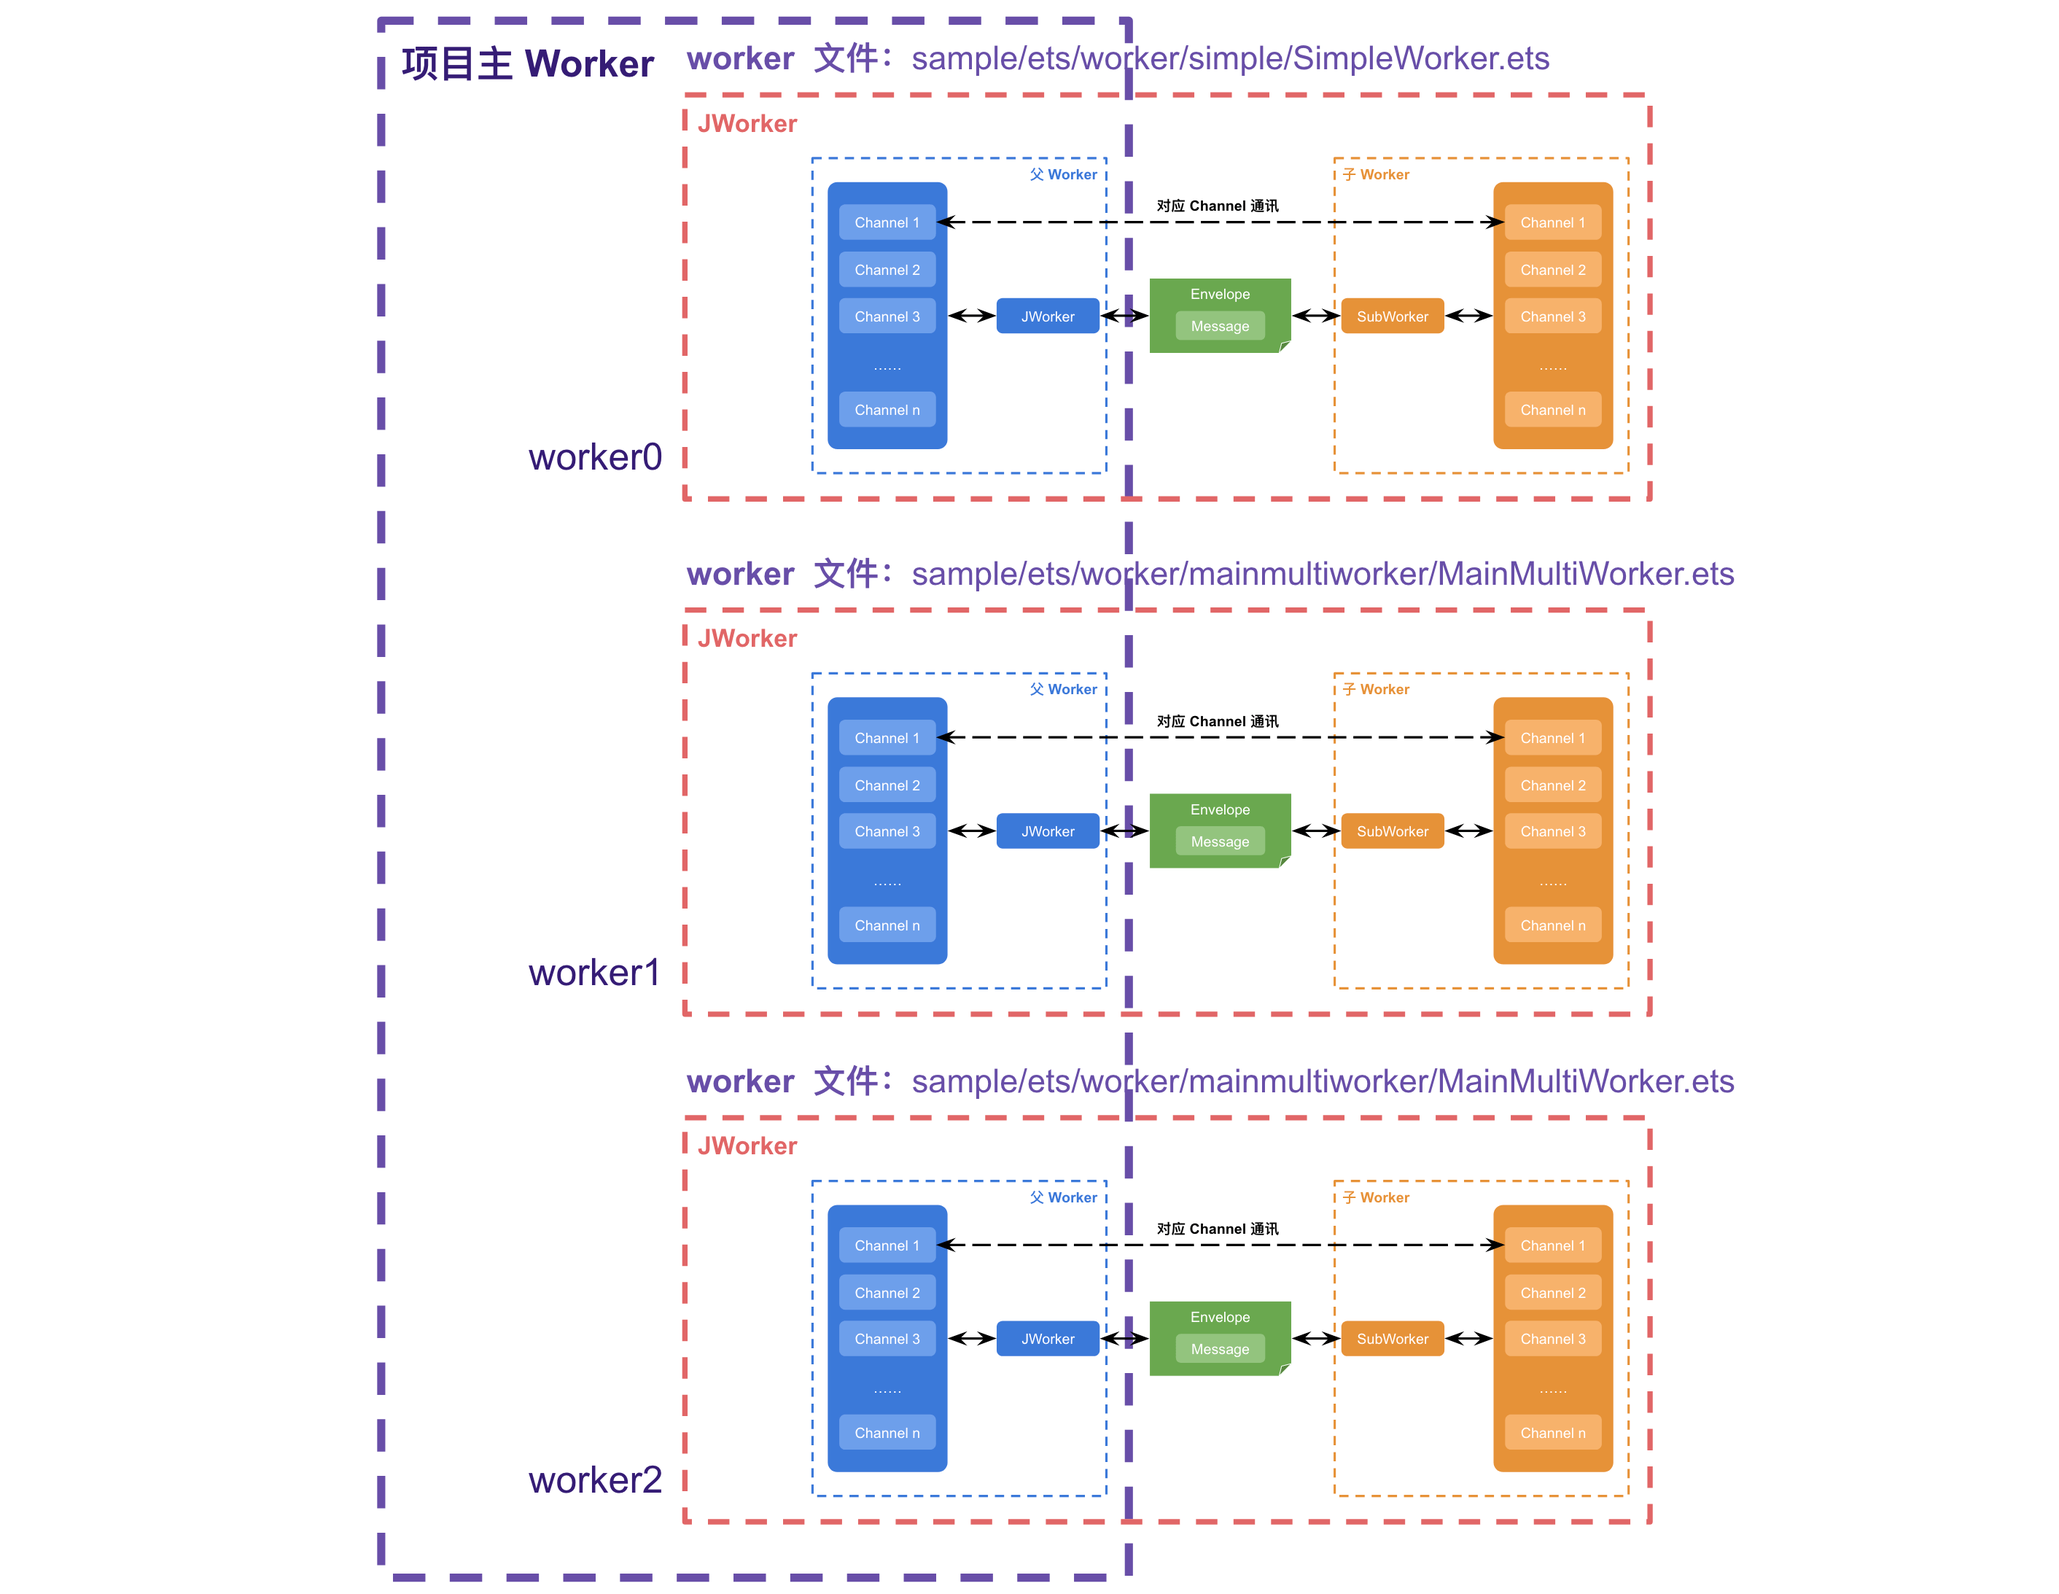
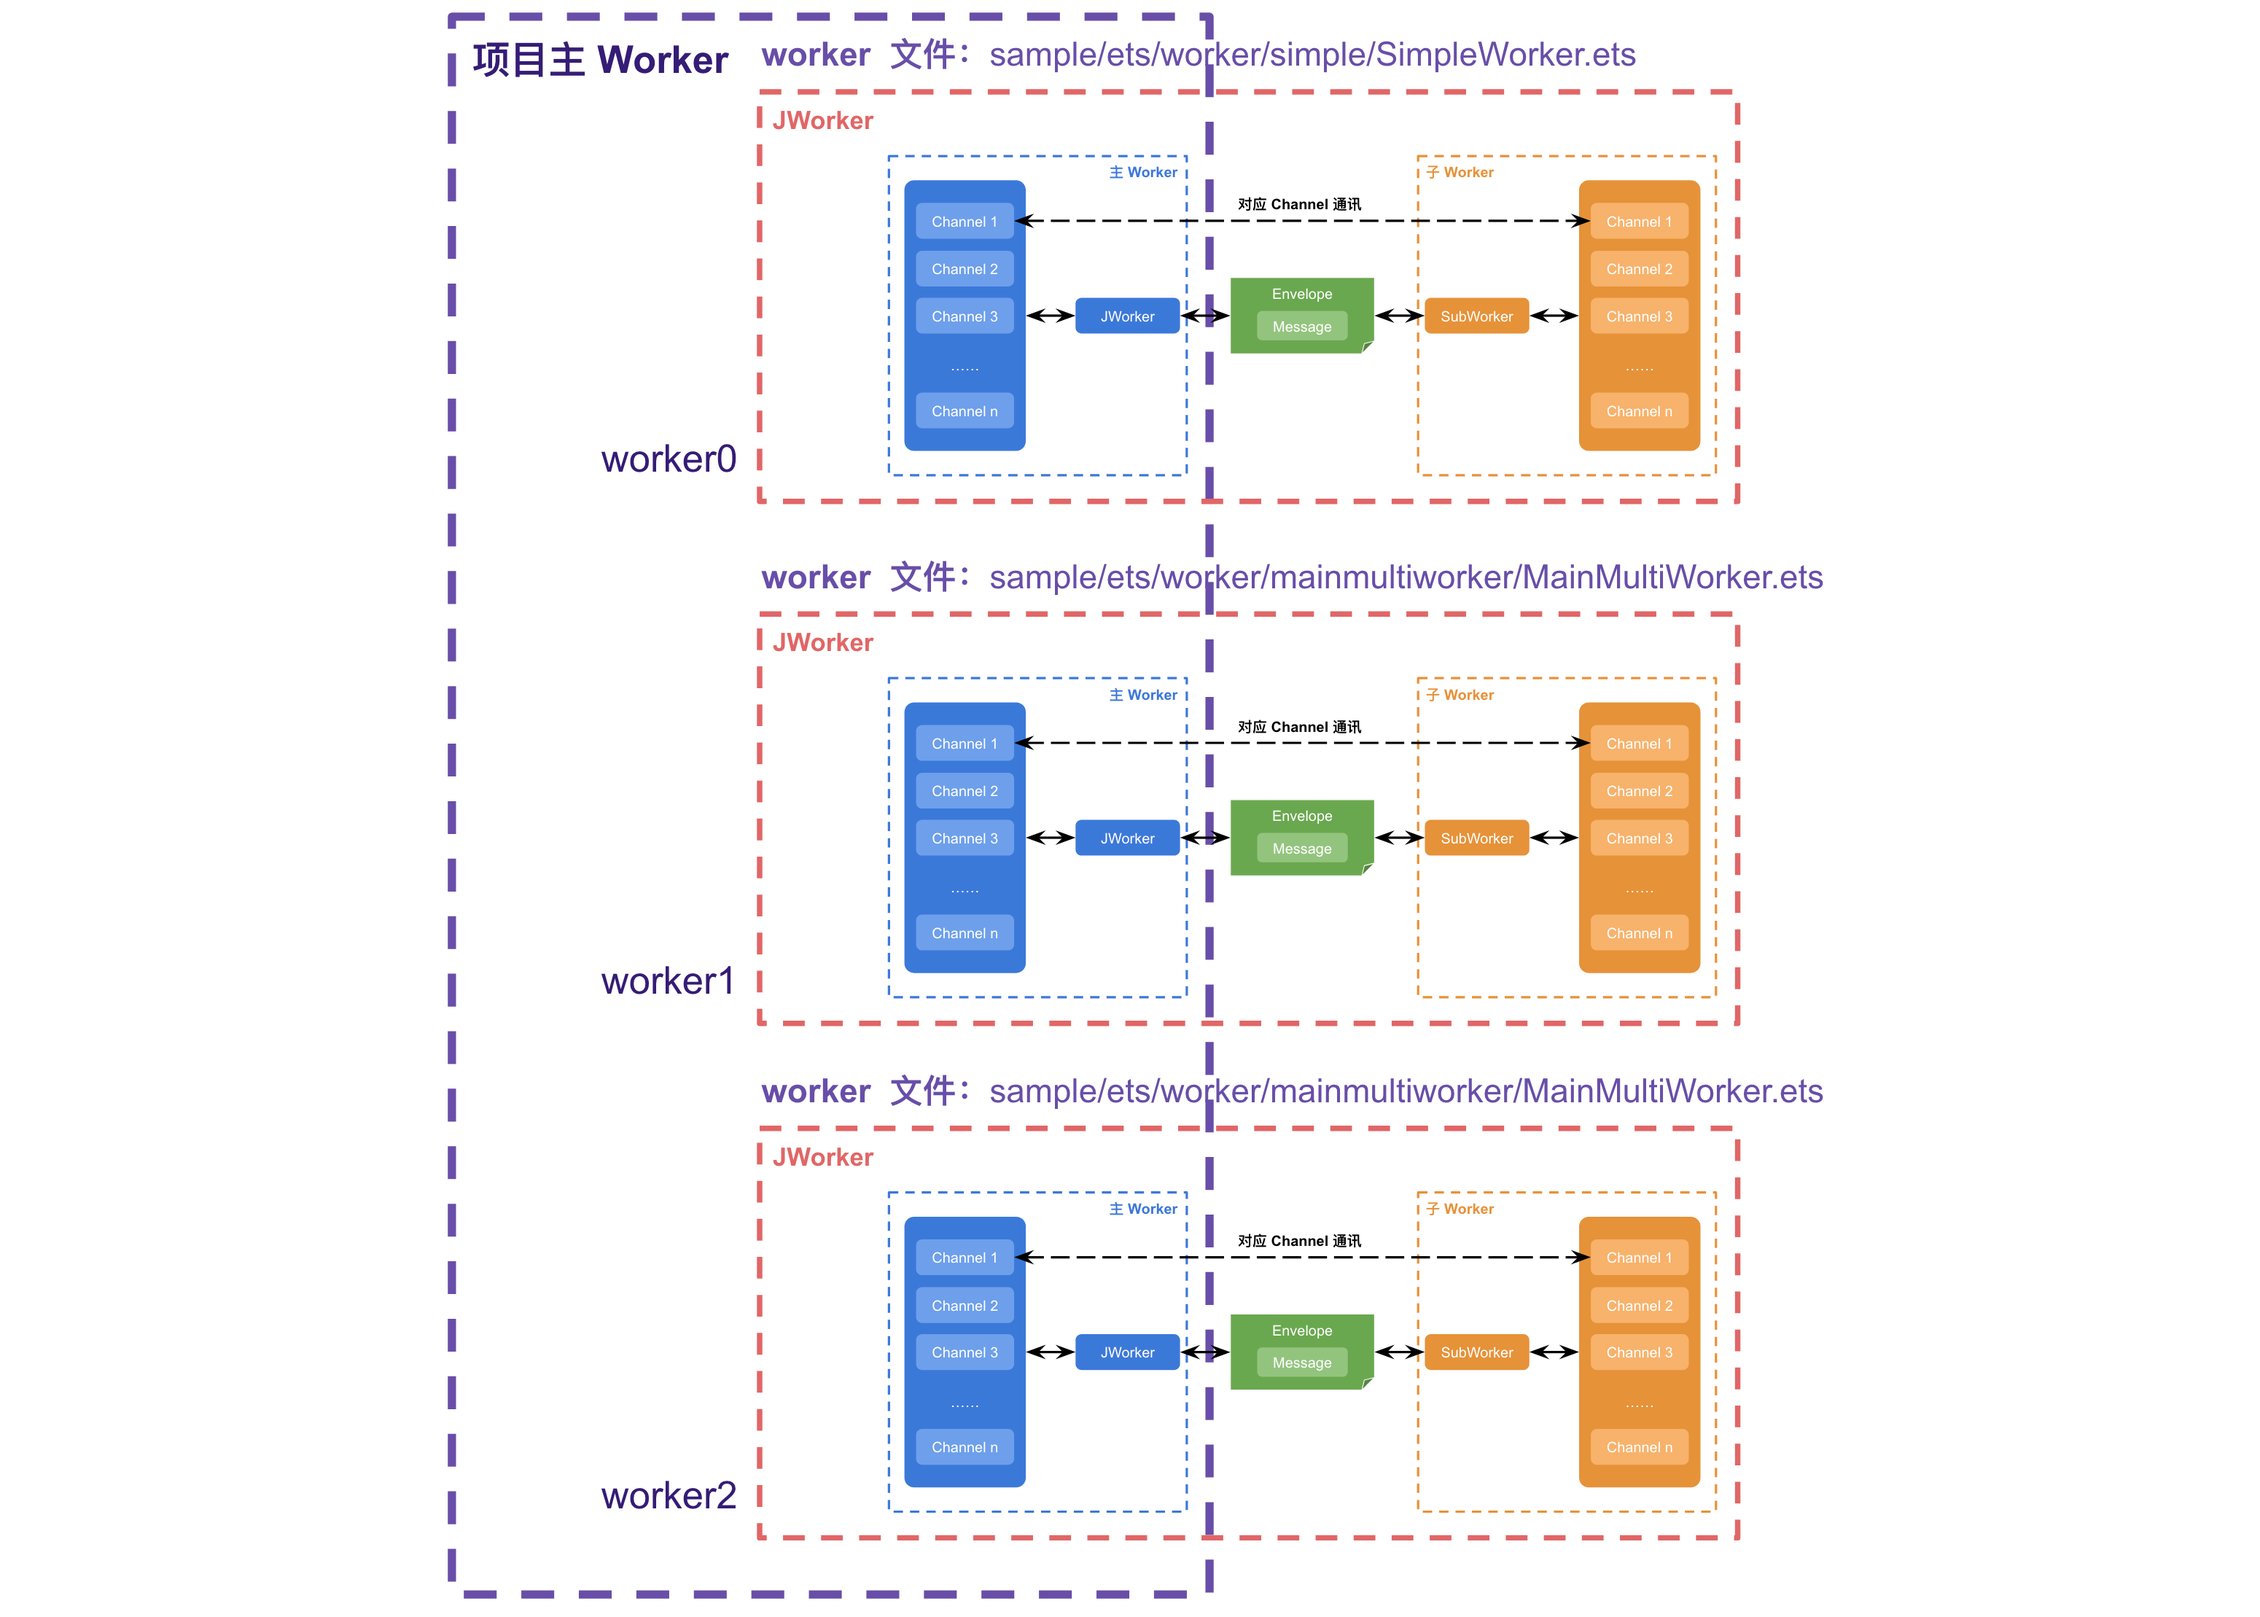
feat: 完善 README.md

diff --git a/README.md b/README.md
@@ -12,6 +12,8 @@
 
 JWorker 是基于鸿蒙 Worker 封装的一套 RPC 通讯机制，所以在正式使用之前需要先添加和配置 Worker 的 ets 文件。可以按照[鸿蒙官方 Worker](https://developer.huawei.com/consumer/cn/doc/harmonyos-guides/worker-introduction) 的使用文档进行添加配置，这里就不再赘述。
 
+> “常规使用” 示例完整代码 [传送门](https://github.com/zincPower/JWorker/tree/main/sample/src/main/ets/worker/simple)
+
 ### 1、创建 JWorker
 
 **主 Worker 中**使用 `createJWorker(workerPath: string)` 创建 `JWorker` 实例，然后调用 `JWorker.start()` 启动 `JWorker` 。 完整代码如下：
@@ -250,16 +252,18 @@ worker.release()
 
 ## 三、多个 Worker
 
-### 1、项目父 Worker 开多个子 Worker
+### 1、项目主 Worker 开多个子 Worker
 
 `JWorker` 项目支持开启多个 Worker ，使用 `createJWorker(workerPath: string)` 方法传入不同的路径，管理好返回 `JWorker` 对象即可。
 
+> “项目主 Worker 开多个子 Worker” 示例完整代码 [传送门](https://github.com/zincPower/JWorker/tree/main/sample/src/main/ets/worker/mainmultiworker)
+
 ![](https://github.com/zincPower/JWorker/blob/main/img/main_multi_worker.png)
 
-项目需要构建上图的使用场景，可以通过以下代码创建 `JWorker` 实例。
+假设项目需要构建上图的使用场景，可以通过以下代码创建 `JWorker` 实例。
 
 - 可以使用不同的 Worker ets 文件，也可以使用同一个 Worker ets 文件可以开启多个 `JWorker` 实例。
-- 通过管理好 `JWorker` 实例，添加渠道后进行各自 Worker 通讯，还可以通过项目主 Worker 让数据在多个子 Worker 流动。
+- 通过管理好 `JWorker` 实例，添加渠道后进行各自 Worker 通讯。
 
 ```ts
 // worker0 和 worker1、worker2 使用不同的 Worker ets 文件进行开启不同的 JWorker 实例
@@ -282,11 +286,11 @@ this.worker2.start()
 
 ### 2、子 Worker 开多个子 Worker
 
-`JWorker` 同样支持在子 Worker 开多个 Worker ，可以进行如下图所示的创建和管理。
+`JWorker` 同样支持在子 Worker 中开启多个 `JWorker` ，可以进行如下图所示的创建和管理。
 
 ![](https://github.com/zincPower/JWorker/blob/main/img/sub_multi_worker.png)
 
-可以在子 Worker 需要创建更多子 Worker 的地方调用 `createJWorker` 创建 `JWorker` ，然后进行启动，后续添加 Channel 进行通讯即可。**使用方式和之前的完全一致。**
+可以在子 Worker 需要创建子 Worker 的地方调用 `createJWorker` 方法创建 `JWorker` ，然后进行启动和添加相应 Channel 进行通讯。**使用方式和之前的完全相同。**
 
 ```ts
 export class ParentSubChannel extends Channel {
@@ -298,6 +302,7 @@ export class ParentSubChannel extends Channel {
   }
 
   private startChildrenWorker() {
+    // 创建三个 JWorker 并开启，添加对应 Channel 
     if (this.childWorker1 == undefined) {
       this.childWorker1 = createJWorker("sample/ets/worker/submultiworker/ChildWorker.ets")
       this.childWorker1Channel = new ChildMainChannel()
@@ -322,19 +327,19 @@ export class ParentSubChannel extends Channel {
 
 **值得注意**
 
-这种情况下需要控制好 Worker 的关闭流程，应该让项目的主 Worker 通知子 Worker 进行关闭他创建的子 Worker ，然后在关闭自身。具体操作如下：
+这种情况下需要控制好 Worker 的关闭顺序，应该让项目的主 Worker 通知子 Worker 进行关闭他创建的子 Worker ，然后在关闭自身。具体操作如下：
 
 ```ts
 // 项目主 Worker 调用子 Worker 的 exit 方法
 this.workerChannel?.send("exit")
 
-// 子 Worker 接收到 exit 的调用，则调用子 Worker 创建的子 Worker 的 exit 进行退出，并等待所有的 Worker 处理完退出后，在退出自身
+// 子 Worker 接收到主 Worker 的 “exit” 调用，则调用子 Worker 创建的子 Worker 的 “exit” 方法进行退出，并等待所有的子 Worker 处理完再退出自身
 export class ParentSubChannel extends Channel {
   // 省略其他逻辑
   async handleMessage(methodName: string, data: Any) {
     switch (methodName) {
       case "exit": {
-        // 等待所有子 Worker 的退出
+        // 等待所有子 Worker 退出完成
         await Promise.all([this.childWorker1Channel?.send("exit"), this.childWorker2Channel?.send("exit"), this.childWorker3Channel?.send("exit")])
         Log.i(TAG, "【exit】")
         await this.worker?.release()
@@ -354,7 +359,7 @@ export class ParentSubChannel extends Channel {
   }
 }
 
-// 子 Worker 的子 Worker 接收到 exit 的调用，退出自身
+// 子 Worker 的子 Worker 接收到 “exit” 的调用，退出自身
 export class ChildSubChannel extends Channel {
   // 省略其他逻辑
   async handleMessage(methodName: string, data: Any) {
